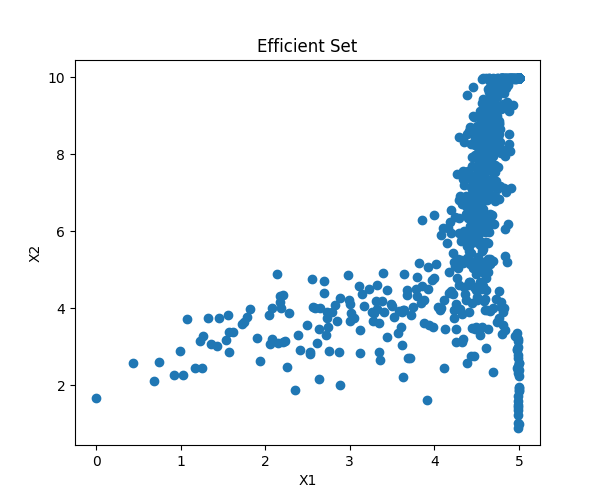
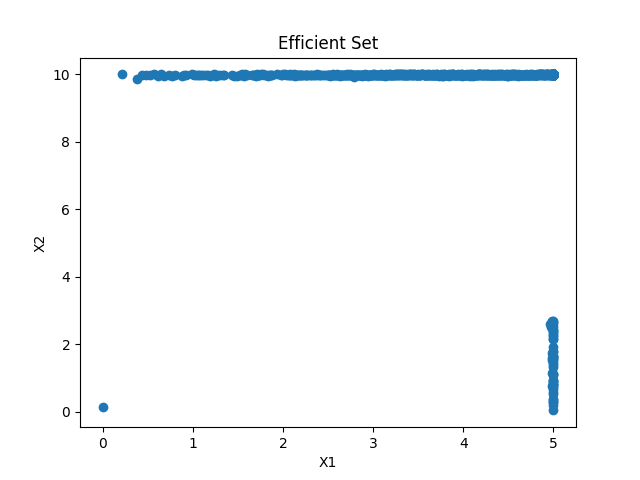
Fix task 2

diff --git a/task2/task2.py b/task2/task2.py
@@ -11,10 +11,11 @@ x0s = []
 x1s = []
 f1s = []
 f2s = []
+
+plot_all_trajectories = False
 for i in range(1001):
     w1 = i / 1000.0
     w2 = 1 - i / 1000.0
-
 
     def objective(x):
         f1 = 0.5 * np.power(x[0], 2) * x[1]
@@ -24,7 +25,6 @@ for i in range(1001):
         return np.maximum(w1 * np.abs(f1 - r1), w2 * np.abs(f2 - r2))
 
     # black-box optimization software
-
     def local_hillclimber(objective, bounds, n_iterations, step_size, init):
         # generate an initial point
         best = init
@@ -34,13 +34,18 @@ for i in range(1001):
         scores = list()
         points = list()
         for i in range(n_iterations):  # take a step
-            candidate = [curr[0] + rand() * step_size[0] - step_size[0] / 2.0,
-                         curr[1] + rand() * step_size[1] - step_size[1] / 2.0]
+            
+            # candidate = [curr[0] + rand() * step_size[0] - step_size[0] / 2.0,
+                        #  curr[1] + rand() * step_size[1] - step_size[1] / 2.0]
+            candidate = [np.random.uniform(max(bounds[0, 0], curr[0] - step_size[0]), min(bounds[0, 1], curr[0] + step_size[0])),
+                        random.uniform(max(bounds[1, 0], curr[1] - step_size[1]), min(bounds[1, 1], curr[1] + step_size[1])) ]
             # print(candidate)
             if candidate[0] > bounds[0, 1]:
                 candidate[0] = curr[0]
+                print('gg')
             if candidate[1] > bounds[1, 1]:
                 candidate[1] = curr[1]
+                print('dsa')
             points.append(candidate)
             # print('>%d f(%s) = %.5f, %s' % (i, best, best_eval, candidate))
             # evaluate candidate point
@@ -55,8 +60,8 @@ for i in range(1001):
         return [best, best_eval, points, scores]
 
     bounds = asarray([[0, 5], [0, 10]])
-    step_size = [0.2, 0.2]
-    n_iterations = 1000
+    step_size = [0.4, 0.4]
+    n_iterations = 10000
     init = [2.4, 2.0]
 
     best, score, points, scores, = local_hillclimber(objective, bounds, n_iterations, step_size, init)
@@ -66,32 +71,33 @@ for i in range(1001):
     f1s.append(0.5 * np.power(best[0], 2) * best[1])
     f2s.append(np.power(best[0], 2) + 3 * best[0] * best[1])
 
-    n, m = 7, 7
-    start = -3
-    x_vals = np.arange(0, 5, 0.1)
-    y_vals = np.arange(0, 10, 0.1)
-    X, Y = np.meshgrid(x_vals, y_vals)
+    if plot_all_trajectories:
+        n, m = 7, 7
+        start = -3
+        x_vals = np.arange(0, 5, 0.1)
+        y_vals = np.arange(0, 10, 0.1)
+        X, Y = np.meshgrid(x_vals, y_vals)
 
-    # print(X.shape)
-    # print(Y.shape)
+        # print(X.shape)
+        # print(Y.shape)
 
-    fig = plt.figure(figsize=(6, 5))
-    left, bottom, width, height = 0.1, 0.1, 0.8, 0.8
-    ax = fig.add_axes([left, bottom, width, height])
-    # Z = 0.1 * np.abs((0.5 * np.power(X, 2) * Y)) +
-    # 0.9 * np.abs((np.power(X, 2) + 3 * X * Y) - 250)
-    Z = objective([X, Y])
-    # print(Z)
+        fig = plt.figure(figsize=(6, 5))
+        left, bottom, width, height = 0.1, 0.1, 0.8, 0.8
+        ax = fig.add_axes([left, bottom, width, height])
+        # Z = 0.1 * np.abs((0.5 * np.power(X, 2) * Y)) +
+        # 0.9 * np.abs((np.power(X, 2) + 3 * X * Y) - 250)
+        Z = objective([X, Y])
+        # print(Z)
 
-    # cp = ax.contour(X, Y, Z)
-    # ax.clabel(cp, inline=True, fontsize=10)
-    # ax.set_title(f'Contour Plot for w1={round(w1,2)}, w2={round(w2,2)}', fontsize=20)
-    # ax.set_xlabel('x[0]')
-    # ax.set_ylabel('x[1]')
+        cp = ax.contour(X, Y, Z)
+        ax.clabel(cp, inline=True, fontsize=10)
+        ax.set_title(f'Contour Plot for w1={round(w1,2)}, w2={round(w2,2)}', fontsize=20)
+        ax.set_xlabel('x[0]')
+        ax.set_ylabel('x[1]')
 
-    # for i in range(n_iterations):
-    #     plt.plot(points[i][0], points[i][1], "o")
-    # plt.savefig(f'pareto{round(w1,2)}_{round(w2,2)}.png')
+        for i in range(n_iterations):
+            plt.plot(points[i][0], points[i][1], "o")
+        plt.savefig(f'pareto{round(w1,2)}_{round(w2,2)}.png')
 
 plt.clf()
 random_x1s = random.rand(1000, 1) * (5.0)
